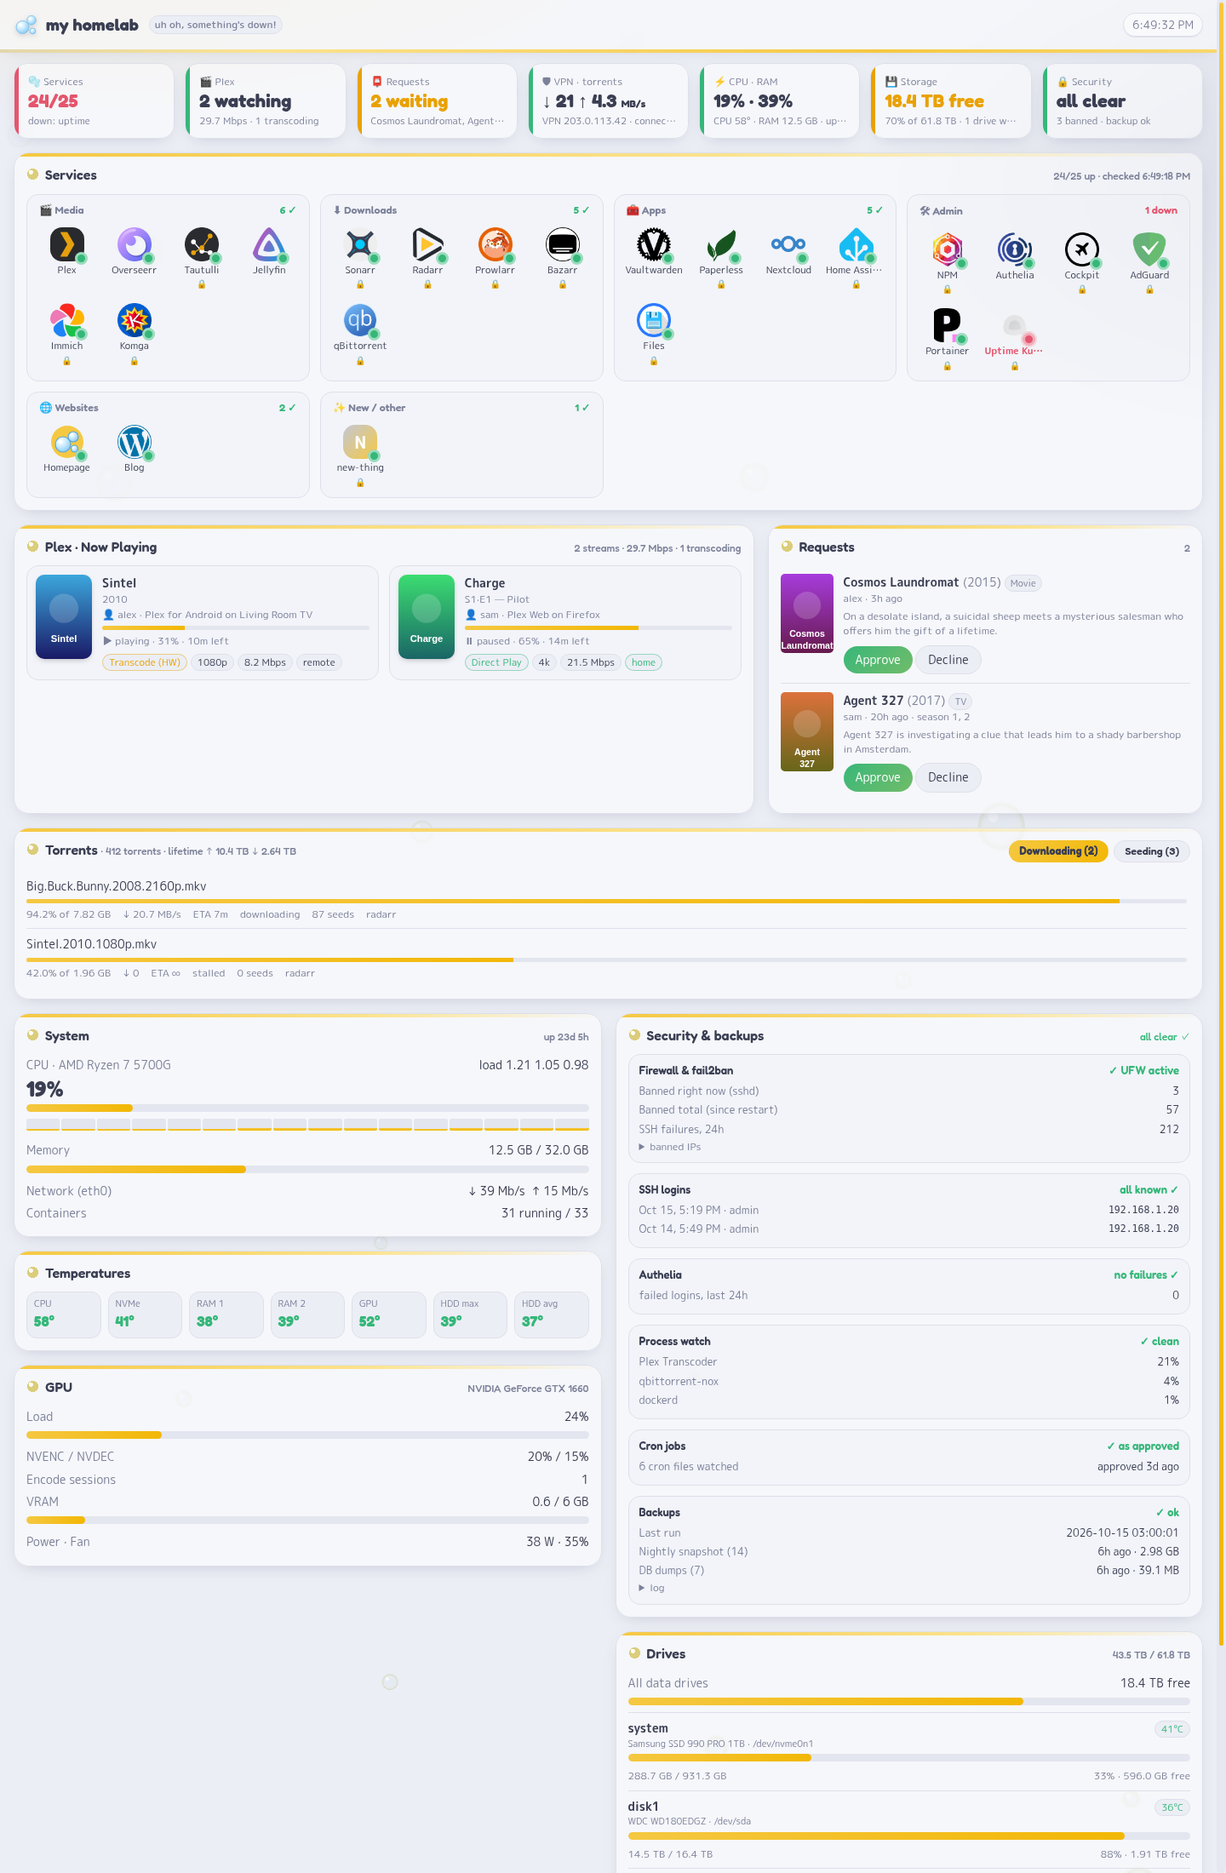
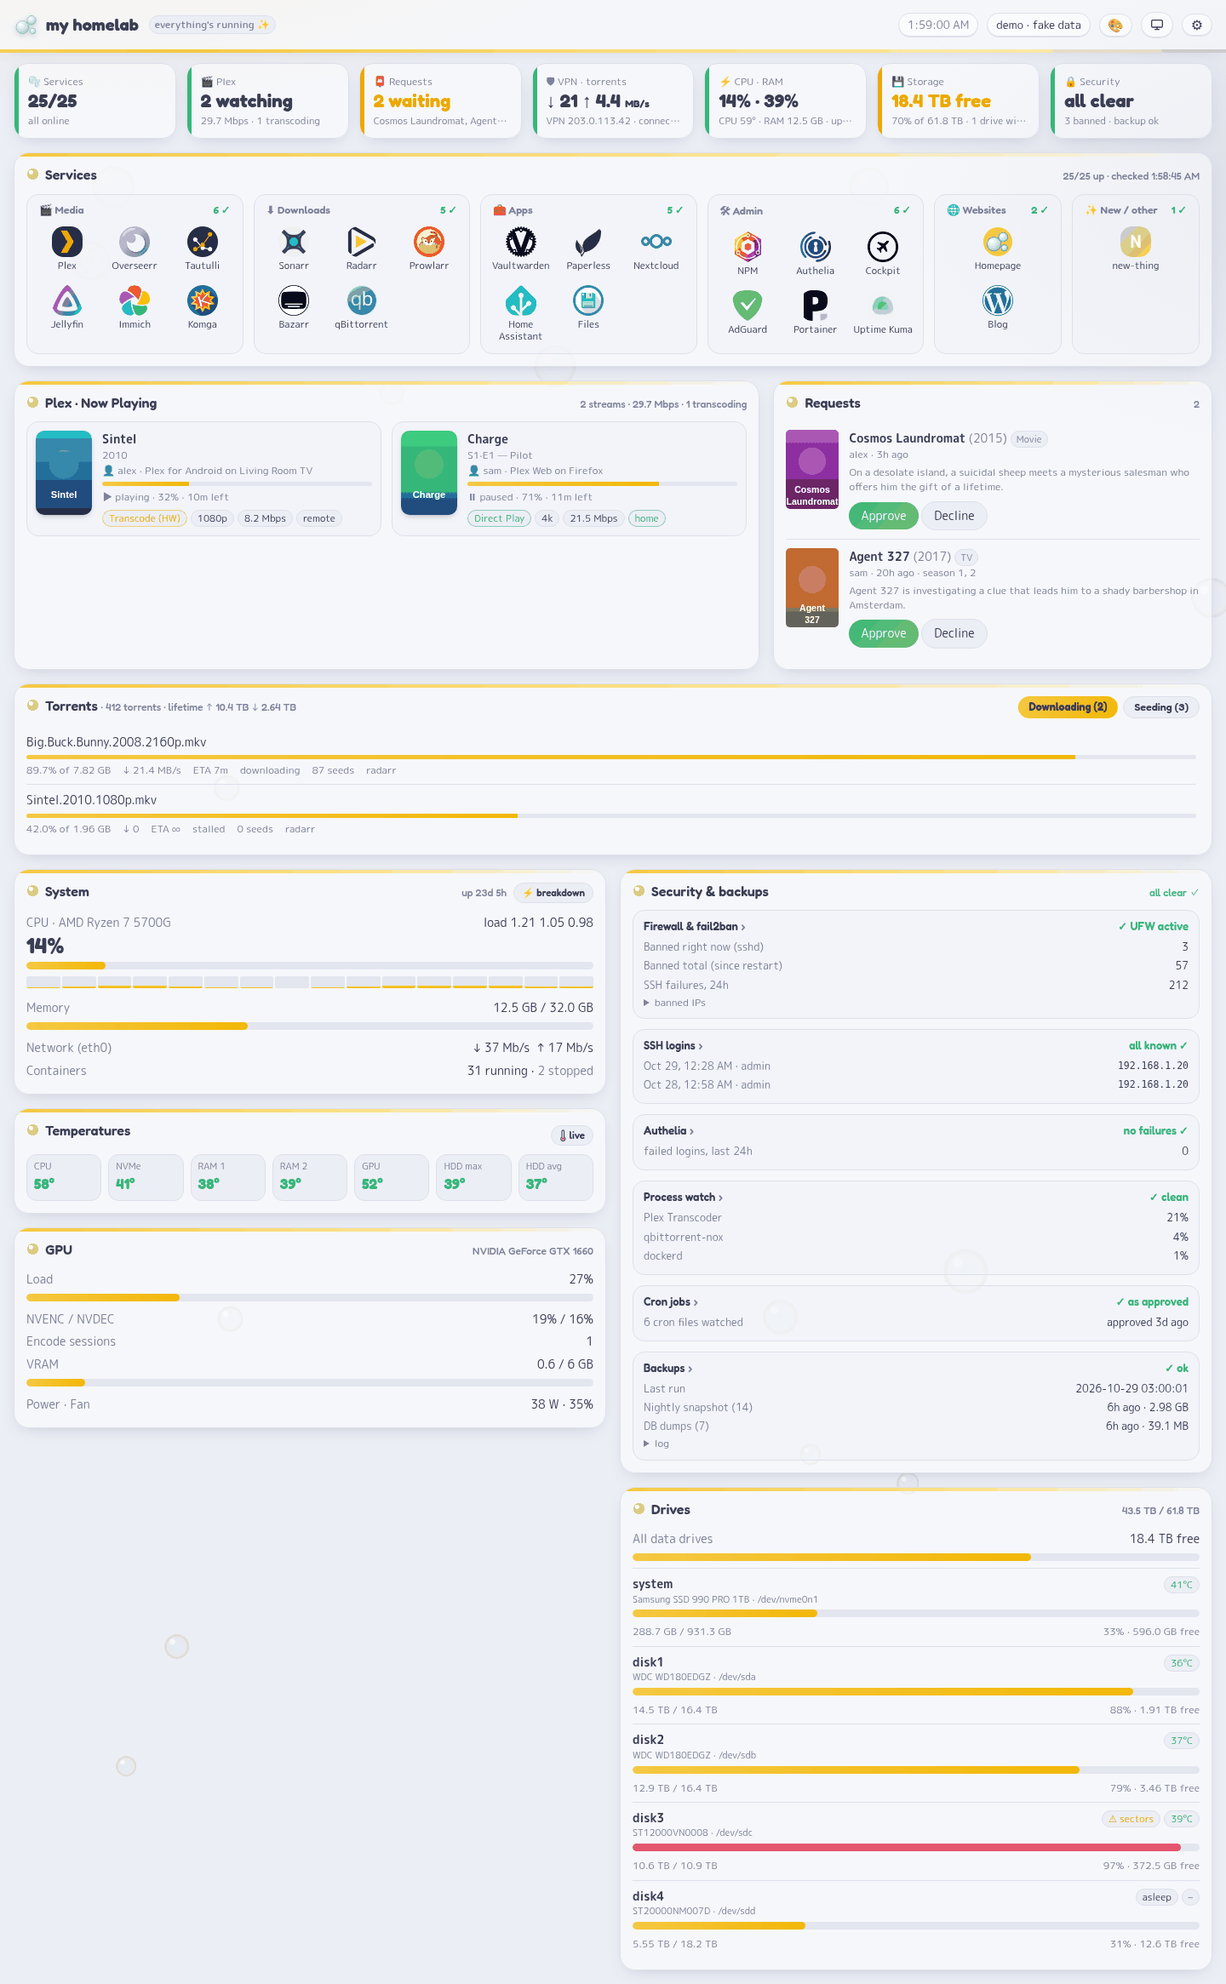
README: what's new in October, with screenshots of the big changes and the security fixes
Why: the README still described the dashboard as it was in mid-October. It
didn't mention the themes, the live window, the Security & backups detail
views or the services redesign, it said tiles carry a 🔒 (they no longer do),
and its collector cost figure (0.02 % CPU) predates the security checks.
The owner asked for every update to be listed, the big ones with a picture,
and the security fixes called out.

What changed:
- README.md:
  - new "What's new (October 2026)" section: the big changes marked ⭐ with a
    screenshot each (Security & backups details, themes incl. Gura, live
    window, services shelves, the wall's CPU cut) and a list of smaller ones.
  - new "Security fixes" list: miner watch no longer dodgeable by name,
    defensive Authelia database read, crafted log lines can't stall the
    collector, user names can't fake an IP, more secrets masked, fingerprints
    computed in Python, safe add-to-known-IPs, settings validator fuzzing,
    server-side "Looks fine" keys.
  - new "Themes" section (switching, per-theme personality, light/dark, CPU,
    adding one).
  - Features, How it fits together, Install, Settings and Security notes
    brought up to date: SSO shown in the tile tooltip, sec-detail.json, the
    collector's measured cost (~4.5 s CPU a minute with every check on),
    default theme setting, known IPs from the SSH view, POST list.
- docs/: fresh demo-mode screenshots (wall light/dark, full page, breakdown,
[…]

Changed region(s): [[0.0, 0.0, 1.0, 1.0], [0.2812, 0.5873, 0.3125, 0.6182], [0.2188, 0.5873, 0.25, 0.6182]]

diff --git a/README.md b/README.md
@@ -1,10 +1,12 @@
 # homelab-dash 🫧
 
 A glanceable dashboard for a self-hosted server: service status, Plex streams, media requests,
-torrents + VPN-leak check, a live **"what's eating my CPU" breakdown**, temps/GPU, drive health, and a security & backups panel.
-One small stdlib-Python app (no pip, no Node, no database), ~25 MB RAM.
+torrents + VPN-leak check, a live **"what's eating my CPU" breakdown**, a **live temps/power window**, drive health,
+and a **security & backups** panel with full detail views. Three switchable themes (Bubbles, Miku, Gura).
+One small stdlib-Python app (no pip, no Node, no database), ~25–40 MB RAM.
 
-**▶ Live demo: [demo.vicy.us](https://demo.vicy.us)** (fake data; try **⚡ breakdown**, the ⚙ settings page and the wall-mode button)
+**▶ Live demo: [demo.vicy.us](https://demo.vicy.us)** (fake data; try **⚡ breakdown**, **🌡 live**, a Security box's
+title, the 🎨 theme button, the ⚙ settings page and the wall-mode button)
 
 ![wall mode, dark](docs/screenshot-wall-dark.png)
 
@@ -13,6 +15,105 @@ One small stdlib-Python app (no pip, no Node, no database), ~25 MB RAM.
 | ![](docs/screenshot-wall-light.png) | ![](docs/screenshot-full.png) |
 
 *(Screenshots are demo mode: fake data, Blender open-movie titles.)*
+
+## What's new (October 2026)
+
+⭐ = a big one, with a picture.
+
+### ⭐ Security & backups: a detail view for every box (Oct 29)
+
+![Security details: SSH logins](docs/screenshot-security.png)
+
+Click any box's title on the Security & backups card (or open `/?security=ssh`) for the full picture behind its
+one-line status, in a window with a tab per box:
+
+- **Firewall & fail2ban**: status, default policy, every rule, every jail with its banned IPs, the week's bans.
+- **SSH logins**: grouped by user, IP **and the key that was used** (matched to your `authorized_keys` comments), so
+  one rare login can't hide behind thousands of routine ones. Failed attempts and scans by IP.
+  **New:** the yellow "not on your list" tag is a button: click it (or "Add all") to put a trusted place on your
+  known-IP list. Only IPs that really logged in can be added.
+- **Authelia**: sign-ins and lockouts straight from its database.
+- **Process watch**, **Cron jobs** (every line marked approved or not), **Immutable files** (each lock's flags).
+- **Backups**: each job's last success, what it did, how long it took, its files, destination size and free space.
+
+![Security details: backups](docs/screenshot-backups.png)
+
+The views are read-only: the dashboard runs no commands. The root collector gathers everything once a minute
+and the page only reads the result.
+
+### ⭐ Security fixes
+
+Most of these were found by separate security reviewers while the detail views were built. All are fixed and covered by tests:
+
+- **The crypto-miner watch couldn't be dodged any more.** It used to skip every process with "homelab-dash" in its
+  command line (the repo is public, so a miner could simply name itself that). It now skips only the collector's own PID.
+- **Authelia's database is read defensively.** Its folder is writable by the Authelia container, so the root collector
+  never lets SQLite open anything there: it reads the file's bytes (no symlinks, no FIFOs, size-capped) into an
+  in-memory copy and queries that with SQLite's defensive settings (no triggers, no views, untrusted schema), real
+  tables only, with row and time limits. A tampered database can't make root run SQL or hang.
+- **Crafted log lines can't stall the collector.** Giant Authelia log lines used to make its regex take minutes per
+  round; they're skipped now. SSH log reads are capped (a connection flood can't make them huge), and log files are
+  opened non-blocking and must be regular files, so a FIFO planted in a log folder can't freeze the details.
+- **User names can't fake an IP.** SSH user names can contain spaces (even "x from 192.0.2.5 port 1"), so the IP is
+  read from the end of the line and must be a real address.
+- **More secrets masked** in the cron and log lines the card shows: `curl -u user:pass`, `sshpass -p`,
+  `smbclient -U user%pass`, API-key and cookie headers, short `?key=` / `?token=` values.
+- **SSH key fingerprints are computed in Python**, instead of running `ssh-keygen` on a file the user controls.
+- **Safe "add to known IPs"**: the server only accepts IPs from its own login data, so a forged request can't trust an attacker.
+- **Settings can't be crashed** (Oct 22): fuzzing the validator with 20,000 broken inputs found ~4,200 that crashed it;
+  each now gets a clear error message instead.
+- **"Looks fine" can only clear real logins** (Oct 17): the acknowledgement keys are computed on the server, never sent by the browser.
+
+### ⭐ Three themes, switchable with one click (Oct 18, Gura on Oct 28)
+
+| Gura (light) | Gura (dark) |
+|---|---|
+| ![Gura theme](docs/screenshot-gura.png) | ![Gura theme, dark](docs/screenshot-gura-dark.png) |
+
+![Miku theme](docs/screenshot-miku.png)
+
+**Bubbles** (the default), **Miku** (teal twin-tails, VU-meter bars, floating notes, an equalizer by the clock) and
+**Gura** (a sunlit lagoon in light mode and the deep in dark mode: a shark-hood header with teeth, a little shark
+swimming behind the title, bubbles that are sometimes a shark, an "a" or a shrimp). Press **T** or 🎨 to switch; the
+choice is remembered per browser. See [Themes](#themes).
+
+### ⭐ Live window: temps, power, clocks and disks, every second (Oct 23)
+
+![Live window](docs/screenshot-live.png)
+
+Click **🌡 live** on the Temperatures panel (or open `/?live`): a browser version of a terminal temps dashboard.
+CPU temperatures, package power (from the CPU's own energy counter), usage, clock and memory, each with a one-minute
+trend and its peak; the GPU; disk I/O with the busiest drives; and every CPU thread's load and clock, grouped by CCD.
+It polls once a second only while it's open, and the layout never jumps while the numbers change.
+
+### ⭐ Services: compact shelves, badges only on problems (Oct 28)
+
+With 50+ services the panel had become the biggest thing on the page. Groups now sit on "shelves" sized for two
+rows of tiles, healthy tiles stay quiet (no green dot on every one), and a service that's down gets a red "!" badge,
+a tinted tile and "· down" after its name, so it isn't marked by colour alone. The panel is about a third shorter
+and the wall view fits any number of groups (see the screenshots above).
+
+### ⭐ The wall view uses about a fifth of the CPU (Oct 22)
+
+A wall display shows the dashboard all day, so its cost adds up. Measured in headless Chrome at 1920×1080:
+**~110% → ~19% of a core** (Bubbles) and **~114% → ~26%** (Miku), with the same look. The card blur behind the
+drifting bubbles was re-rendered every frame (now gone), the header stripe slides on the GPU, panels skip redraws
+that change nothing, refreshes never overlap, and everything pauses in a hidden tab. The server shares in-flight
+refreshes between browsers and re-reads files only when they change.
+
+### Smaller updates
+
+- **Plex Now Playing**: "+N more" gives it the whole row when more people watch than fit; on the wall the list
+  scrolls inside its box, and clicking the Plex tile expands or collapses it (Oct 18).
+- **SSH logins**: a "Looks fine ✓" button clears the unknown-login alert; a new unfamiliar login flags again (Oct 17).
+- **CPU / memory breakdown** shows containers' real memory (the figure `docker stats` shows), not the sum of their
+  processes: nginx's 34 workers no longer add up to 1.4 GB (Oct 23).
+- **Health checks through the proxy** can use a path (e.g. `pass.example.com/api/alive`) when `/` sits behind a login (Oct 28).
+- The **header** stays on top while you scroll (Oct 21); the System card says "N running · M stopped" (Oct 22);
+  the Security card's "log" and "banned IPs" dropdowns stay open across refreshes (Oct 20).
+- The live button got an SVG thermometer (Oct 28); a theme's tagline hints on the settings page show its own default (Oct 28);
+  on shorter screens the wall view keeps Services at full height (Oct 28).
+- Earlier: a custom tab icon setting, backup log checks, SVG icons from the data folder (Oct 15).
 
 ## ⚡ Spotlight: what's eating my CPU?
 
@@ -26,7 +127,7 @@ everything using your machine**, grouped the way you think about it:
 - **Flip to Memory** to see who's hoarding RAM instead.
 - **Click a tile** for its CPU in cores, memory, process count, a live sparkline, and the **busiest processes inside it**:
   watch "Plex Transcoder" light up the moment someone starts a transcode.
-- Counts *every* process on the box, not just containers, so nothing hides. Costs about 15 ms every 5 seconds.
+- Counts *every* process on the box, not just containers, so nothing hides. Costs about 6 ms every 5 seconds.
 - Deep-link it: `https://your-dash/?breakdown`. [Try it on the demo](https://demo.vicy.us/?breakdown).
 
 Needs the (optional) root collector; see Install.
@@ -35,33 +136,48 @@ Needs the (optional) root collector; see Install.
 
 - **Services, automatically.** Reads Nginx Proxy Manager's proxy host files, so every host you add in NPM
   shows up on its own, health-checked every 30 s, with icons from [dashboard-icons](https://github.com/homarr-labs/dashboard-icons).
-  Hosts behind Authelia/Authentik get a 🔒. Not using NPM? List services in `config.toml`.
+  Hover a tile to see whether it's behind SSO (Authelia/Authentik) or public. Not using NPM? List services in `config.toml`.
 - **Plex Now Playing** (via Tautulli): who's watching what, direct play vs transcode, HW vs CPU, home vs remote.
   Poster art is proxied, so your Plex token never reaches the browser. More viewers than fit? **"+N more"** gives
   Now Playing the whole row (Requests steps aside until you click "show requests"), and on the wall the list scrolls.
 - **Requests** (Seerr / Overseerr / Jellyseerr): approve or decline right from the dashboard.
 - **qBittorrent**: downloads, seeding, speeds, and a big red banner if it ever shows your real home IP (VPN leak).
 - **System**: CPU per thread, RAM, network, temperatures (AMD, Intel, DDR5, NVMe), NVIDIA GPU incl. NVENC/NVDEC.
+- **🌡 Live window**: temps, package power, clocks, memory and disk I/O every second, with one-minute trends (see above).
 - **⚡ CPU / memory breakdown**: a live treemap of every container and host program, with per-process detail (see above).
 - **Drives**: usage + SMART health/temps for every disk, without waking sleeping drives.
 - **Security & backups**: fail2ban, SSH logins from unknown IPs, Authelia failures, crypto-miner watch,
   crontab change detection with a one-click "Looks good" approval, `chattr +i` lock checks, backup freshness.
-  Click a box's title for its **details** (read-only): firewall rules and bans, who logged in over SSH (with the key
+  Click a box's title for its **details**: firewall rules and bans, who logged in over SSH (with the key
   they used), Authelia sign-ins and lockouts, every cron line marked approved or not, each backup job's last run,
   size and free space. Deep link: `https://your-dash/?security=ssh`.
 - **Wall mode**: `https://your-dash/?wall` fits a 1920×1080 screen with no scrolling and hides the cursor.
   Click the Plex tile there to expand or collapse Now Playing; the stream list scrolls inside its own box.
+- **Themes**: Bubbles, Miku and Gura, each with its own mascot, lines and tab icon (see below).
 - Light/dark automatic, floating bubbles, optional mascot. Every panel is optional and hides itself if not configured.
+
+## Themes
+
+- **Switch** with the 🎨 button or the **T** key. The choice is saved per browser, so a wall display can keep its own
+  theme. The default for new visitors is set on the settings page.
+- **Each theme has a personality**: mascot, greeting, quotes, click emoji, taglines and tab icon. Miku and Gura bring
+  their own defaults; anything you set for a theme on the settings page wins. Bubbles uses the top-level fields.
+- **Light and dark** follow your system, in every theme.
+- **Light on CPU**: no backdrop blur; the drifting bubbles, the header stripe and Gura's rays and shark move with
+  `transform` (cheap for the GPU), and everything stops with "reduce motion".
+- **Adding one**: add its id and defaults to `THEMES` in `app/settings.py` and its styles to `app/themes.css`, all scoped
+  under `html[data-theme="<id>"]`. The themes ship no character artwork; mascots are your own uploads.
 
 ## How it fits together
 
 ```
 browser ──► reverse proxy + SSO ──► dash container (uid 1000, read-only, no capabilities)
-                                       │  reads (read-only):  NPM proxy_host/*.conf, /proc, hwmon, hw.json
+                                       │  reads (read-only):  NPM proxy_host/*.conf, /proc, hwmon,
+                                       │                      hw.json + sec-detail.json
                                        │  calls with API keys: qBittorrent, Seerr, Tautulli
                                        ▼
-                     /var/lib/homelab-dash/hw.json  ◄── homelab-dash-collector (root systemd service, no network)
-                                                        smartctl · nvidia-smi · fail2ban · journal · cron · lsattr
+     /var/lib/homelab-dash/hw.json, sec-detail.json  ◄── homelab-dash-collector (root systemd service, no network)
+                                                         smartctl · nvidia-smi · fail2ban · journal · cron · lsattr · ufw
 ```
 
 The part exposed to the network has no power; the part with root never talks to the network.
@@ -95,7 +211,8 @@ DEMO=1 python3 app/app.py          # Python 3.11+, then open http://localhost:80
    sudo systemctl restart homelab-dash-collector
    ```
    Needs Python 3.11+ on the host. Uses `smartctl` (smartmontools), and `nvidia-smi`, `fail2ban-client`,
-   `docker` if present. Costs about 0.02 % CPU on a modern box. Uninstall: `sudo bash collector/install.sh --uninstall`.
+   `docker` if present. With every security check on, it costs about 4.5 s of CPU a minute (measured on a
+   32-thread box with a busy SSH log, ~0.2% of the machine). Uninstall: `sudo bash collector/install.sh --uninstall`.
    It's configured by file on purpose: it runs as root, so a web page shouldn't be able to change what it does.
 
 ## Settings page
@@ -104,12 +221,12 @@ DEMO=1 python3 app/app.py          # Python 3.11+, then open http://localhost:80
 
 Click ⚙ on the dashboard (or open `/settings`):
 
-- **Look & feel**: title, taglines, click emoji, mascot (upload an image), what the mascot says.
+- **Look & feel**: title, default theme, and per theme its taglines, click emoji, mascot (upload an image), what the mascot says.
 - **Services**: everything found in NPM, with groups you can create, rename and reorder, labels, icons
   (any [dashboard-icons](https://dashboard-icons.homarr.dev) name), and hiding. New NPM hosts appear on their own.
 - **Extra services** that aren't in NPM (NAS, router, ...), health-checked too.
 - **Integrations**: qBittorrent, Seerr/Overseerr/Jellyseerr, Tautulli, with a Test button.
-- **Trusted IPs** for the SSH/SSO login check.
+- **Trusted IPs** for the SSH/SSO login check (or add them from the SSH detail view).
 
 Changes apply immediately, no restart. They're saved to `data/settings.json`; keys to `data/secrets.json` (both `chmod 600`).
 Prefer files? Put a `config.toml` (see [`config.example.toml`](config.example.toml)) in `data/`; it's used until the first save.
@@ -141,7 +258,7 @@ Then add a proxy host for it (forward to `homelab-demo:8000`), with no SSO.
 - Plex posters are proxied through Tautulli, so your Plex token isn't exposed either.
 - Your `known_ips` list stays on the server; the page only gets a "known / unknown" flag per login.
 - The collector redacts passwords, tokens, webhook URLs and `user:pass@` from cron and log lines before writing
-  `hw.json`, and that file is readable only by root and the dash container's group.
+  `hw.json` and `sec-detail.json`, and those files are readable only by root and the dash container's group.
 
 **Who can use it.**
 - Run it **behind SSO** (Authelia, Authentik, ...). The app has no login of its own, so anyone who gets past your SSO
@@ -152,14 +269,15 @@ Then add a proxy host for it (forward to `homelab-demo:8000`), with no SSO.
   Uploads must really be PNG/JPEG/GIF/WebP (checked by content, not name); SVG is refused because it can carry scripts.
 - `trusted_proxy` (default `nginx`) makes the app refuse any connection that isn't from your reverse proxy,
   so another container on the same Docker network can't skip the SSO.
-- Every POST (saving settings, uploads, approve/decline, cron approval) requires the browser's `Origin` to be the
-  dashboard itself (`ORIGIN`, or its own Host if unset). That blocks other websites from acting for you (CSRF).
+- Every POST (saving settings, uploads, approve/decline, cron approval, adding a known IP) requires the browser's
+  `Origin` to be the dashboard itself (`ORIGIN`, or its own Host if unset). That blocks other websites from acting for you (CSRF).
 - Everything from outside (torrent names, Plex titles, Seerr usernames, hostnames) is HTML-escaped before it's shown,
-  under a strict Content-Security-Policy.
+  under a Content-Security-Policy.
 - Icons are fetched only from hosts the dashboard already knows (no open proxy), and static files can't escape `app/static/`.
 - The container runs as uid 1000 with a read-only filesystem, all capabilities dropped, and 256 MB / 128 process caps.
 - The root collector never listens on the network. The only thing the dash can ask of it is "approve the cron jobs
-  as they are right now", checked by hash.
+  as they are right now", checked by hash. Authelia's database (its folder is writable by the Authelia container) is
+  read without following symlinks or blocking on FIFOs, and log tails must be regular files.
 
 What it can't protect against: anyone with Docker or root access on the host can read the container's environment
 (`docker inspect`), like with any self-hosted app. Keep `.env` at `chmod 600` and don't commit it (`.gitignore` covers it).
